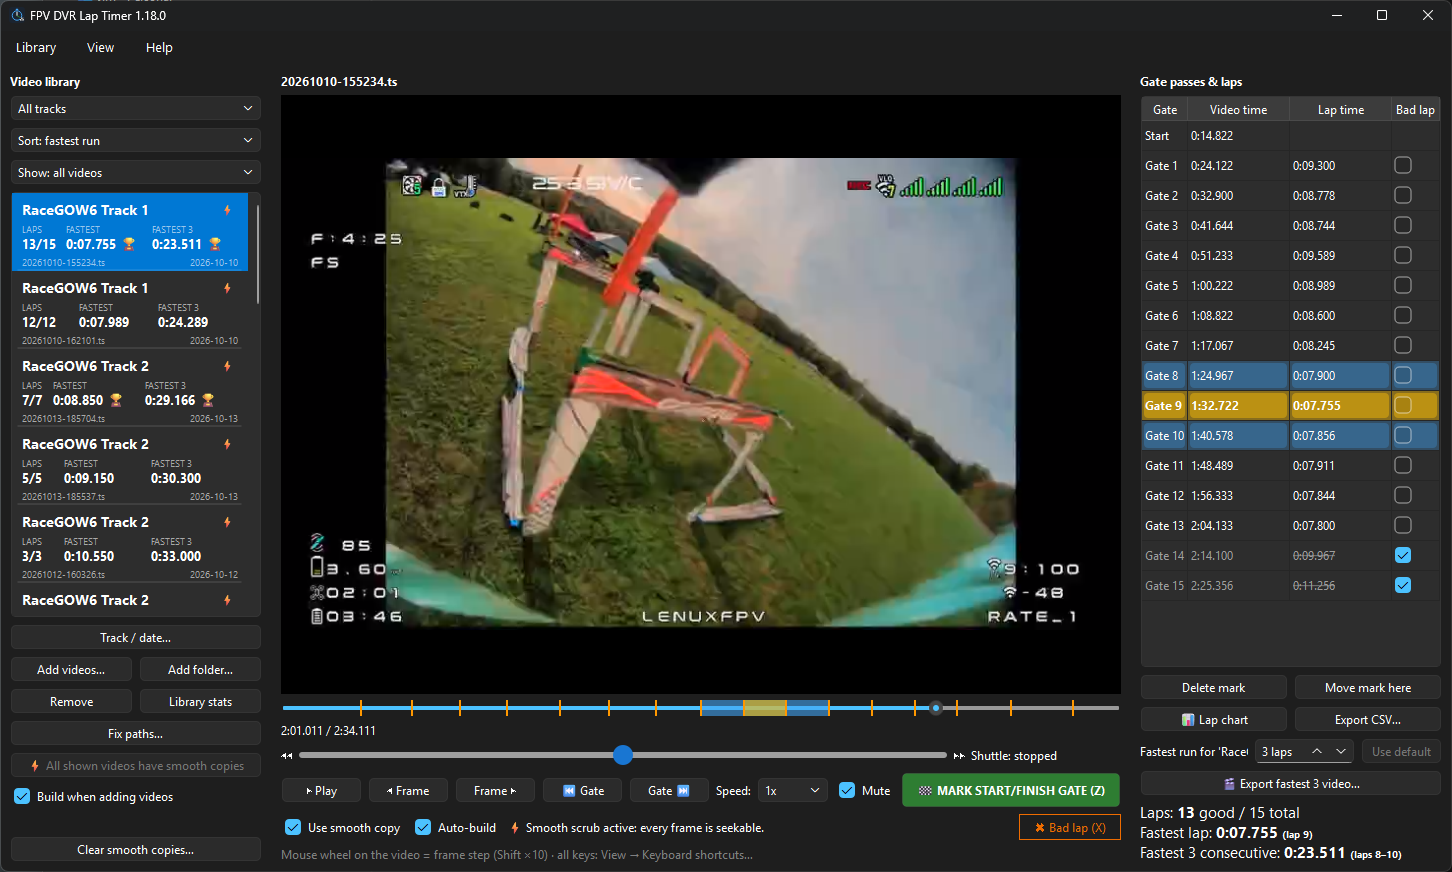
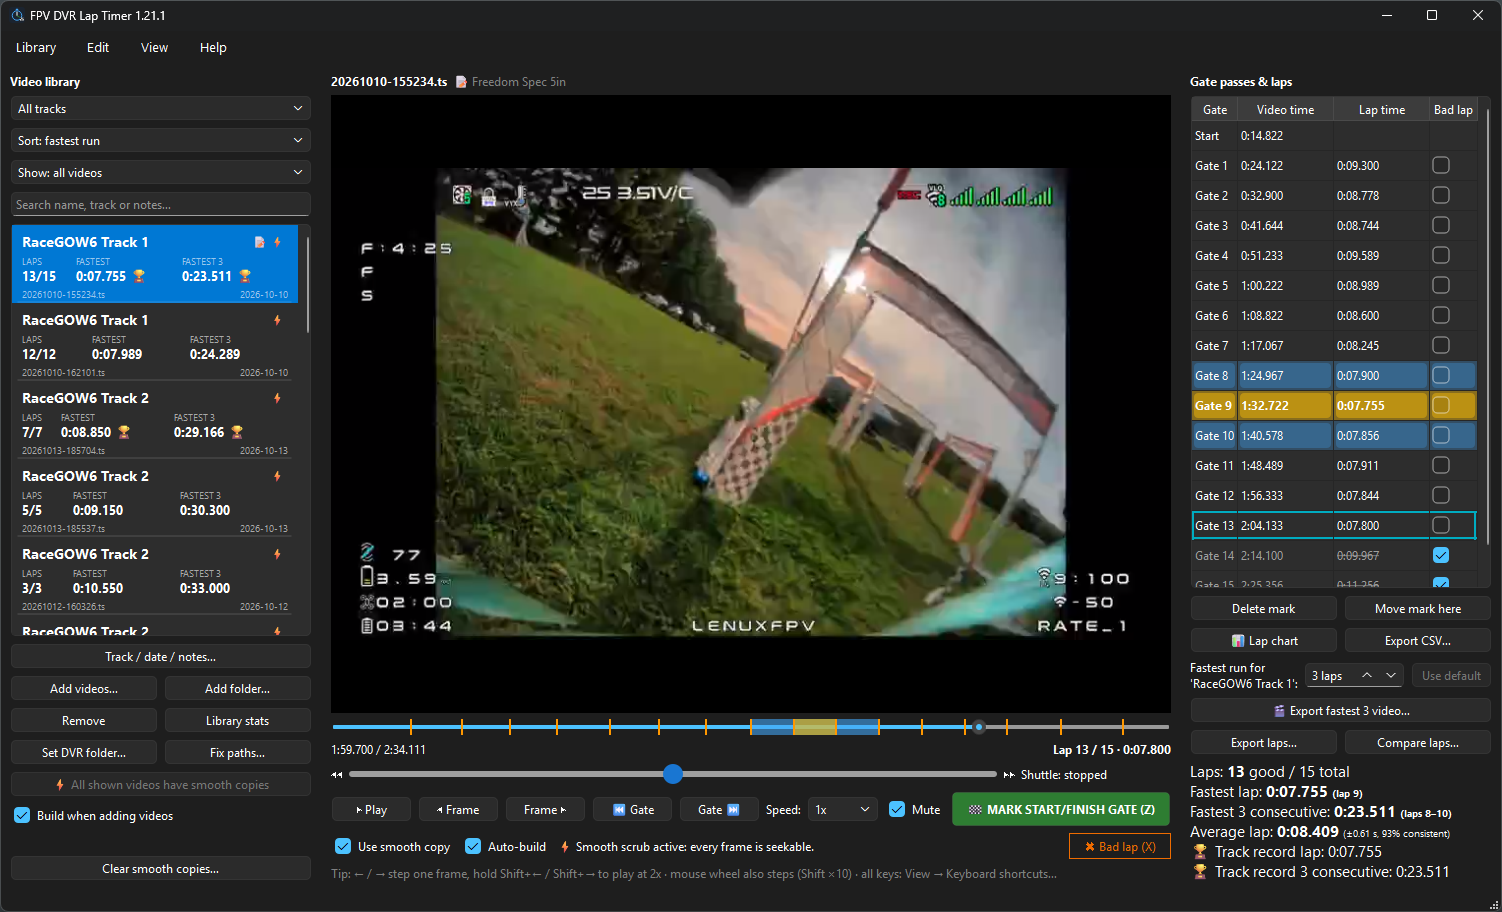
Docs: bring the README and export guide up to date, new screenshot

diff --git a/README.md b/README.md
@@ -24,20 +24,29 @@ placed on a frame you can see, the times are accurate to the frame and easy to d
 ## What it can do
 
 - **Mark laps frame by frame.** Play, shuttle (0.1x to 16x), step single frames or jump between gates, then mark
-  the frame on screen. Marks can be moved or deleted, and any lap can be flagged as bad.
+  the frame on screen. Marks can be moved (even a single frame with a key) or deleted, any lap can be flagged as
+  bad with one key, and Ctrl+Z undoes your mark changes. A label and a timer on the video show which lap you are in.
 - **Scrub smoothly.** It builds a small all-keyframe copy of each video in the background, so scrubbing and
   frame-stepping are fluid even on `.ts` DVR files.
 - **Keep a library.** Videos are grouped by track and session date, and each card shows the lap count, fastest lap
-  and fastest run at a glance. Move or rename files and the marks stay attached.
+  and fastest run at a glance. Add a note to a video (battery, props, tune) and search by name, track or note. Move
+  or rename files and the marks stay attached.
+- **Add new flights without the chore.** Point the app at your DVR folder (subfolders are fine) and it offers the
+  new videos each time it starts, with the track suggested from the folder name.
 - **Find your best.** Fastest lap and your fastest run of consecutive laps (3 by default, 2-10 per track), per
-  video and across a whole track, with a lap chart and a progress chart to see improvement over time. In the open
-  video the fastest lap is highlighted in gold and the fastest run in blue, in the gate list and on the seek bar.
+  video and across a whole track, with a lap chart and a progress chart to see improvement over time, plus how
+  consistent your laps are. In the open video the fastest lap is highlighted in gold and the fastest run in blue,
+  in the gate list and on the seek bar.
+- **Compare two laps.** Play any two laps side by side, even from different videos on the same track, both starting
+  on their gate frame, to see where one gains on the other.
 - **Export a shareable video.** Cut your fastest run from the original footage with a lap timer drawn on it,
   optional start and end pictures (your pilot handle, say), your own intro and outro videos, your own audio or
   none, and padding either side. You can also export any laps you choose, and move or hide parts of the timer.
   [Export guide](docs/EXPORT.md).
 - **Export your data.** Lap times to CSV, and the whole library to a single file you can back up, move to another
   computer or merge into another library.
+- **Fit a small screen.** A compact layout and a hideable library panel bring the window down to about 780-1040 px
+  wide.
 
 It runs on Windows (installer or portable exe) and Linux, and reads `.ts`, `.mp4`, `.mov`, `.mkv`, `.m4v` and
 `.avi` files. Found a bug or have an idea? [Open an issue](https://github.com/lenuxfpv/fpv-dvr-lap-timer/issues).
@@ -148,12 +157,14 @@ the cached smooth copies to free disk space.
 
 Everything is stored in one SQLite database, `library.db`: Linux `~/.local/share/fpv-dvr-lap-timer/`, Windows
 `%APPDATA%\fpv-dvr-lap-timer\`. Set the environment variable `FPV_LAP_TIMER_DB` to use a different file. It holds
-each video's path, gate marks, bad-lap flags, track name, session date and notes. Back up that one file to keep your
+each video's path, gate marks, bad-lap flags, track name, session date and notes, plus the track you gave each
+folder's videos and the DVR check's list of files it has already offered. Back up that one file to keep your
 history.
 
 - **Smooth-scrub copies** live in a cache folder, never next to your videos: Linux `~/.cache/fpv-dvr-lap-timer/smooth`,
   Windows `%LOCALAPPDATA%\fpv-dvr-lap-timer\smooth`.
-- **Preferences** (theme, keyboard shortcuts, the *Auto-build* / *Build when adding* checkboxes) are stored
+- **Preferences** (theme, keyboard shortcuts, compact layout, the DVR folder, the *Auto-build* / *Build when adding*
+  checkboxes, your export options) are stored
   separately by Qt (Linux `~/.config/fpv-dvr-lap-timer/app.conf`, Windows registry) and are not part of the library
   file.
 - **Help → About** shows the library folder and the smooth-copies folder as links that open them in your file
@@ -179,8 +190,8 @@ The **Library** menu works on the whole database, so you don't have to find `lib
 - **Import library (replace)…** swaps your library for an exported file. Your current library is saved
   first as `library-before-import-<date-time>.db` next to `library.db`.
 - **Merge library…** adds another library to yours without overwriting anything. Videos are matched by
-  file path: new videos come across with their marks, track and session date; for videos you both have,
-  marks at times you don't already have are added and an empty track or session date is filled in
+  file path: new videos come across with their marks, track, session date and notes; for videos you both have,
+  marks at times you don't already have are added and an empty track, session date or note is filled in
   (your own marks and settings are kept). A summary shows what was added.
 
 To move to another computer, export on the old one and import (or merge) on the new one. You can also copy
@@ -211,9 +222,11 @@ LAPS      FASTEST     FASTEST 3
   Bad laps are excluded, as everywhere else.
 - The **file name** is on a small line at the bottom (shortened in the middle if long), with the session
   date at its right.
-- Badges at the top right: **🔒** auto-build is off for this video, **⚡** smooth-scrub copy ready, **⚠ duplicate**
+- Badges at the top right: **📝** the video has a note, **🔒** auto-build is off for this video, **⚡** smooth-scrub copy ready, **⚠ duplicate**
   (orange) same file listed twice, **⚠ not found** (red) the file is missing - double-click it to locate it.
-- Hover a card for its full path.
+- Hover a card for its full path (and its note).
+- Above the list: a **track** filter, a **Sort** box (date, fastest lap or fastest run), a **Show** box (all videos,
+  not marked yet, or marked only) and a **search box** that matches file names, tracks and notes.
 - The **Remove** button takes the selected video out of the library, with its marks. The video file is not touched.
 
 **Right-click menu.** Right-click a video (or a selection; right-clicking an unselected video acts on just that one):
@@ -235,8 +248,9 @@ LAPS      FASTEST     FASTEST 3
    viewed. When you add a folder, each video's track is **suggested from the name of the folder it sits in**
    (`RaceGOW/Track 1/flight.ts` starts on *Track 1*, or on the track you gave that folder's videos last time; a folder
    named like an existing track, in any capitals, uses that track; videos directly in the folder you picked get no
-   suggestion). Change any of them in the list. Videos that
-   **this app exported** are left out of folder scans (see *DVR folder*).
+   suggestion). Change any of them in the list. Videos that this app exported are left out of folder scans. A *Note
+   for all added videos* box saves one note on everything you add. Or skip all this: choose a **DVR folder** and the
+   app offers new flights for you (see *DVR folder*).
 2. Select videos and click **Track / date / notes…** to set a track name, session date and notes (see *Tracks and session dates*).
 3. Double-click a video to open it.
 4. Play or scrub to the moment you pass through the gate and press **Z** (or the green button; the key can be
@@ -377,15 +391,16 @@ Choose the folder your goggles' DVR files end up in once, and the app offers the
   never when you cancel): *Watch this folder*, *Not now* (it asks again next time) or *Don't ask again*. Choosing it
   also counts everything in that list as offered, so none of it comes back. Dropping a folder never asks.
 - New videos open in the same add list as *Add folder…*, with each track suggested from the folder name, a note box
-  and *Add N videos*. **The app learns your choice:** if you put the videos from a folder called `Track 1` on the track
-  `RaceGOW Track 1`, the next videos from a folder of that name start on `RaceGOW Track 1` (matched by folder name,
-  ignoring capitals; change one in the list and it learns the new choice; renaming or deleting a track updates it). Nothing is added until you click. Only videos that aren't in the library yet are listed.
+  and *Add N videos*. Nothing is added until you click, and only videos that aren't in the library yet are listed.
+- **The app learns your choice.** If you put the videos from a folder called `Track 1` on the track `RaceGOW Track 1`,
+  the next videos from a folder of that name start on `RaceGOW Track 1` (matched by folder name, ignoring capitals;
+  change one in the list and it learns the new choice; renaming or deleting a track updates it).
 - Whatever that list showed is remembered, whether you added it or unticked it, so it isn't offered again. Videos are
   recognised by file name, size and date (not by folder), so renaming or moving the DVR folder, or a track folder,
-  doesn't bring skipped videos back. Close the
-  list with *Cancel* and it is simply offered again next time. To get rid of a video for good, untick it and click *Add N videos*; if it is the only one, unticking it turns the button into
-  **Don't add it (never offer again)**. **Offer skipped videos again** forgets the list, and
-  **Stop watching** clears the folder.
+  doesn't bring skipped videos back. Close the list with *Cancel* and it is simply offered again next time.
+- **To get rid of a video for good,** untick it and click *Add N videos*. If it is the only new video, unticking it
+  turns the button into **Don't add it (never offer again)**. **Offer skipped videos again** forgets the whole list,
+  and **Stop watching** clears the folder.
 - **Exported videos are skipped.** Videos made by the export feature are left out of the DVR check, *Add folder…* and
   dropped folders. Exports are recognised by the tag the app now writes into each exported file (so a renamed export
   is still caught) and by the names it suggests (`<track> fastest 3 27.900.mp4`, `<track> laps 3-5 1:02.345.mp4`),
@@ -428,8 +443,7 @@ on the other.
 - Both laps start on their own start-gate frame and play together; **Play / Pause**, **Frame** steps, the **Speed**
   box (0.1x to 2x), the seek bar and your own play and step keys all move the two videos as one. As in the main
   window, **hold Shift+←** or **Shift+→** (your hold-to-play keys) to play both backward or forward at 2x while the
-  key is down; they stop when you let go. The shorter lap stops
-  on its finish gate while the other runs on. The line under the videos gives both lap times and the difference;
+  key is down; they stop when you let go. The shorter lap stops on its finish gate while the other runs on. The line under the videos gives both lap times and the difference;
   whichever lap reaches a gate or corner first at the same elapsed time is ahead. Both videos play without sound.
 - **It needs smooth copies.** The original `.ts` files can't seek to an exact frame (they land up to a second late) and
   are too heavy to decode two at once, so the two laps would not line up. If a chosen video has no smooth copy the
@@ -494,15 +508,15 @@ New to it? See the step-by-step guide: **[How to export your fastest laps](docs/
 - **Padding:** 1 s before the first gate and 2 s after the last one by default. Change them with "Start padding" and
   "End padding" in the export dialog (0–10 s each; the start can't go earlier than the start of the video).
   **Reset padding** puts both back to the defaults, and your choice is remembered.
-- **Audio** is kept if the source has any, unless you tick **Remove audio** (remembered) or choose **Replace audio
-  with:** an audio file of your own (mp3, wav, m4a, flac, ogg…; or any file that has an audio track). The replacement
+- **Audio** is kept if the source has any, unless you tick **Remove audio (whole video, including intro and outro)**
+  (remembered) or choose **Replace audio with:** an audio file of your own (mp3, wav, m4a, flac, ogg…; or any file that has an audio track). The replacement
   starts with the clip, is padded with silence if it is shorter and fades out over the last second if it is longer.
   The two options are alternatives: choosing a file switches *Remove audio* off. The audio file you used last is
   remembered (if it is still there); *Clear* forgets it.
 - **Intro and outro videos:** choose an **Intro video:** and/or **Outro video:** of your own (any video file). They
   are joined before and after the lap clip, fitted into the same frame size (black bars if the shape differs) and
   frame rate; the lap timer and pictures appear only on the lap clip. They keep their own sound (silence if they
-  have none). With a *Replace audio with:* file, tick **Replacement audio also plays over the intro video and outro video (added below)** to
+  have none). With a *Replace audio with:* file, tick **Replacement audio also plays over the intro video and outro video (added above)** to
   have it play under the whole video; unticked, it covers only the lap clip. The preview shows the lap clip only.
 - **Start and end pictures (stickers):** choose a **Start picture:** and/or an **End picture:** (they can be
   different files; a PNG with transparency works best, JPG, WebP, BMP and GIF also work), for example your
@@ -539,7 +553,8 @@ New to it? See the step-by-step guide: **[How to export your fastest laps](docs/
   remembered. On a small screen the options scroll instead of the window growing past the screen.
 - **Highlight fastest lap:** tick it in the export window to show the fastest of the exported laps in gold in the
   finished-laps list. Off by default; the choice is remembered.
-- **Timer decimals:** the lap timer on the video shows 3 decimals (25.737) by default. Choose *Timer decimals* 2, 1 or 0
+- **Decimals:** the lap timer on the video shows 3 decimals (25.737) by default. Choose *Decimals* 2, 1 or 0 (in the
+  export window's *Timer* group)
   for a cleaner look; extra digits are cut off, not rounded, and the choice is remembered.
 
 ## Troubleshooting
@@ -548,6 +563,10 @@ New to it? See the step-by-step guide: **[How to export your fastest laps](docs/
 - **"ffmpeg needed" or smooth copies won't build.** See *What it needs*. The usual cause is an ffmpeg without libx264;
   the app says so in plain words and tells you the fix for your system.
 - **Windows shows a blue SmartScreen warning.** See *"Windows protected your PC"* under *Windows*.
+- **The same video keeps coming back from the DVR check.** Untick it and click *Add N videos* (or *Don't add it (never
+  offer again)* if it is the only one). *Cancel* remembers nothing.
+- **Compare laps says a smooth copy is needed.** Both laps need one so they can start on exactly their gate frame;
+  let it build it (see *Comparing laps*).
 - **Something unexpected goes wrong.** The app shows a message in the status bar and keeps running instead of
   closing; the details are written to `errors.log` next to the library database. Please include it if you
   [open an issue](https://github.com/lenuxfpv/fpv-dvr-lap-timer/issues).

diff --git a/docs/EXPORT.md b/docs/EXPORT.md
@@ -96,6 +96,9 @@ finishes, **Open the folder** takes you to the video.
 The result is an H.264 MP4 of the **original footage** (not the smooth copy) at its original resolution, cut on
 the exact frames you marked, with BT.709 colours so it plays correctly on YouTube, Discord and phones.
 
+Each exported file carries a small tag saying it came from this app. That is how the DVR folder check and *Add folder…* know
+to leave your exports out of the library, even if you rename them.
+
 ## Requirements
 
 Export needs a full **ffmpeg** build with the libx264 encoder and the drawtext filter (the app offers to install
